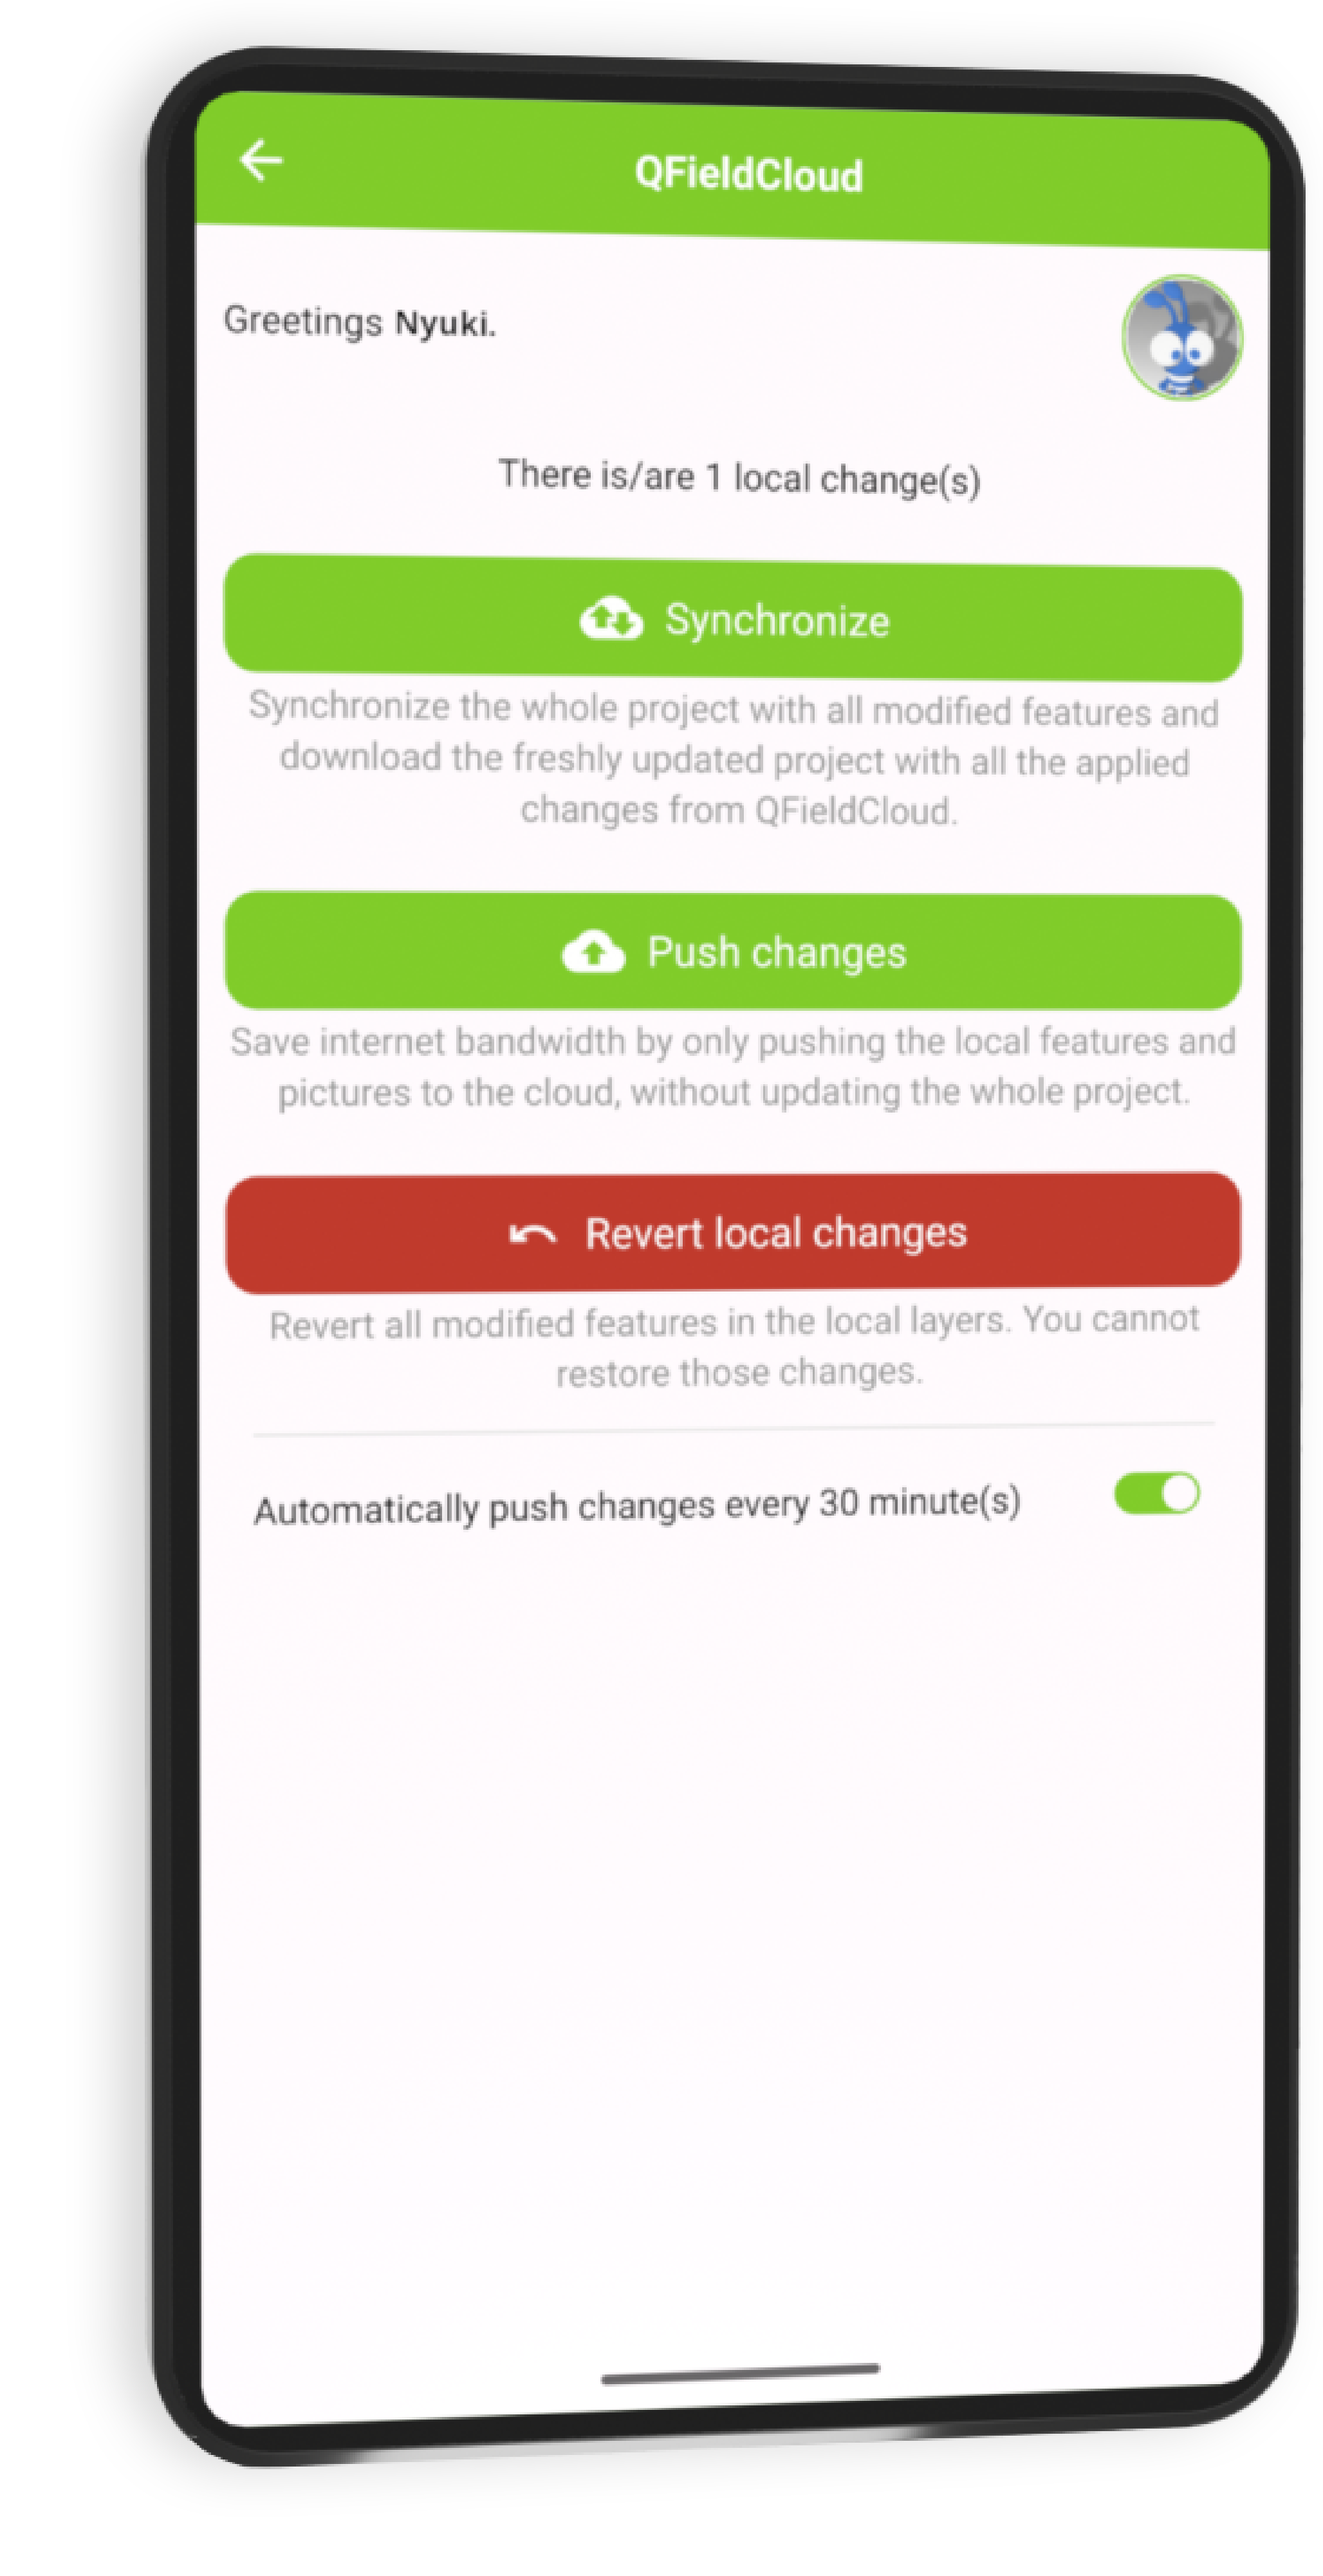
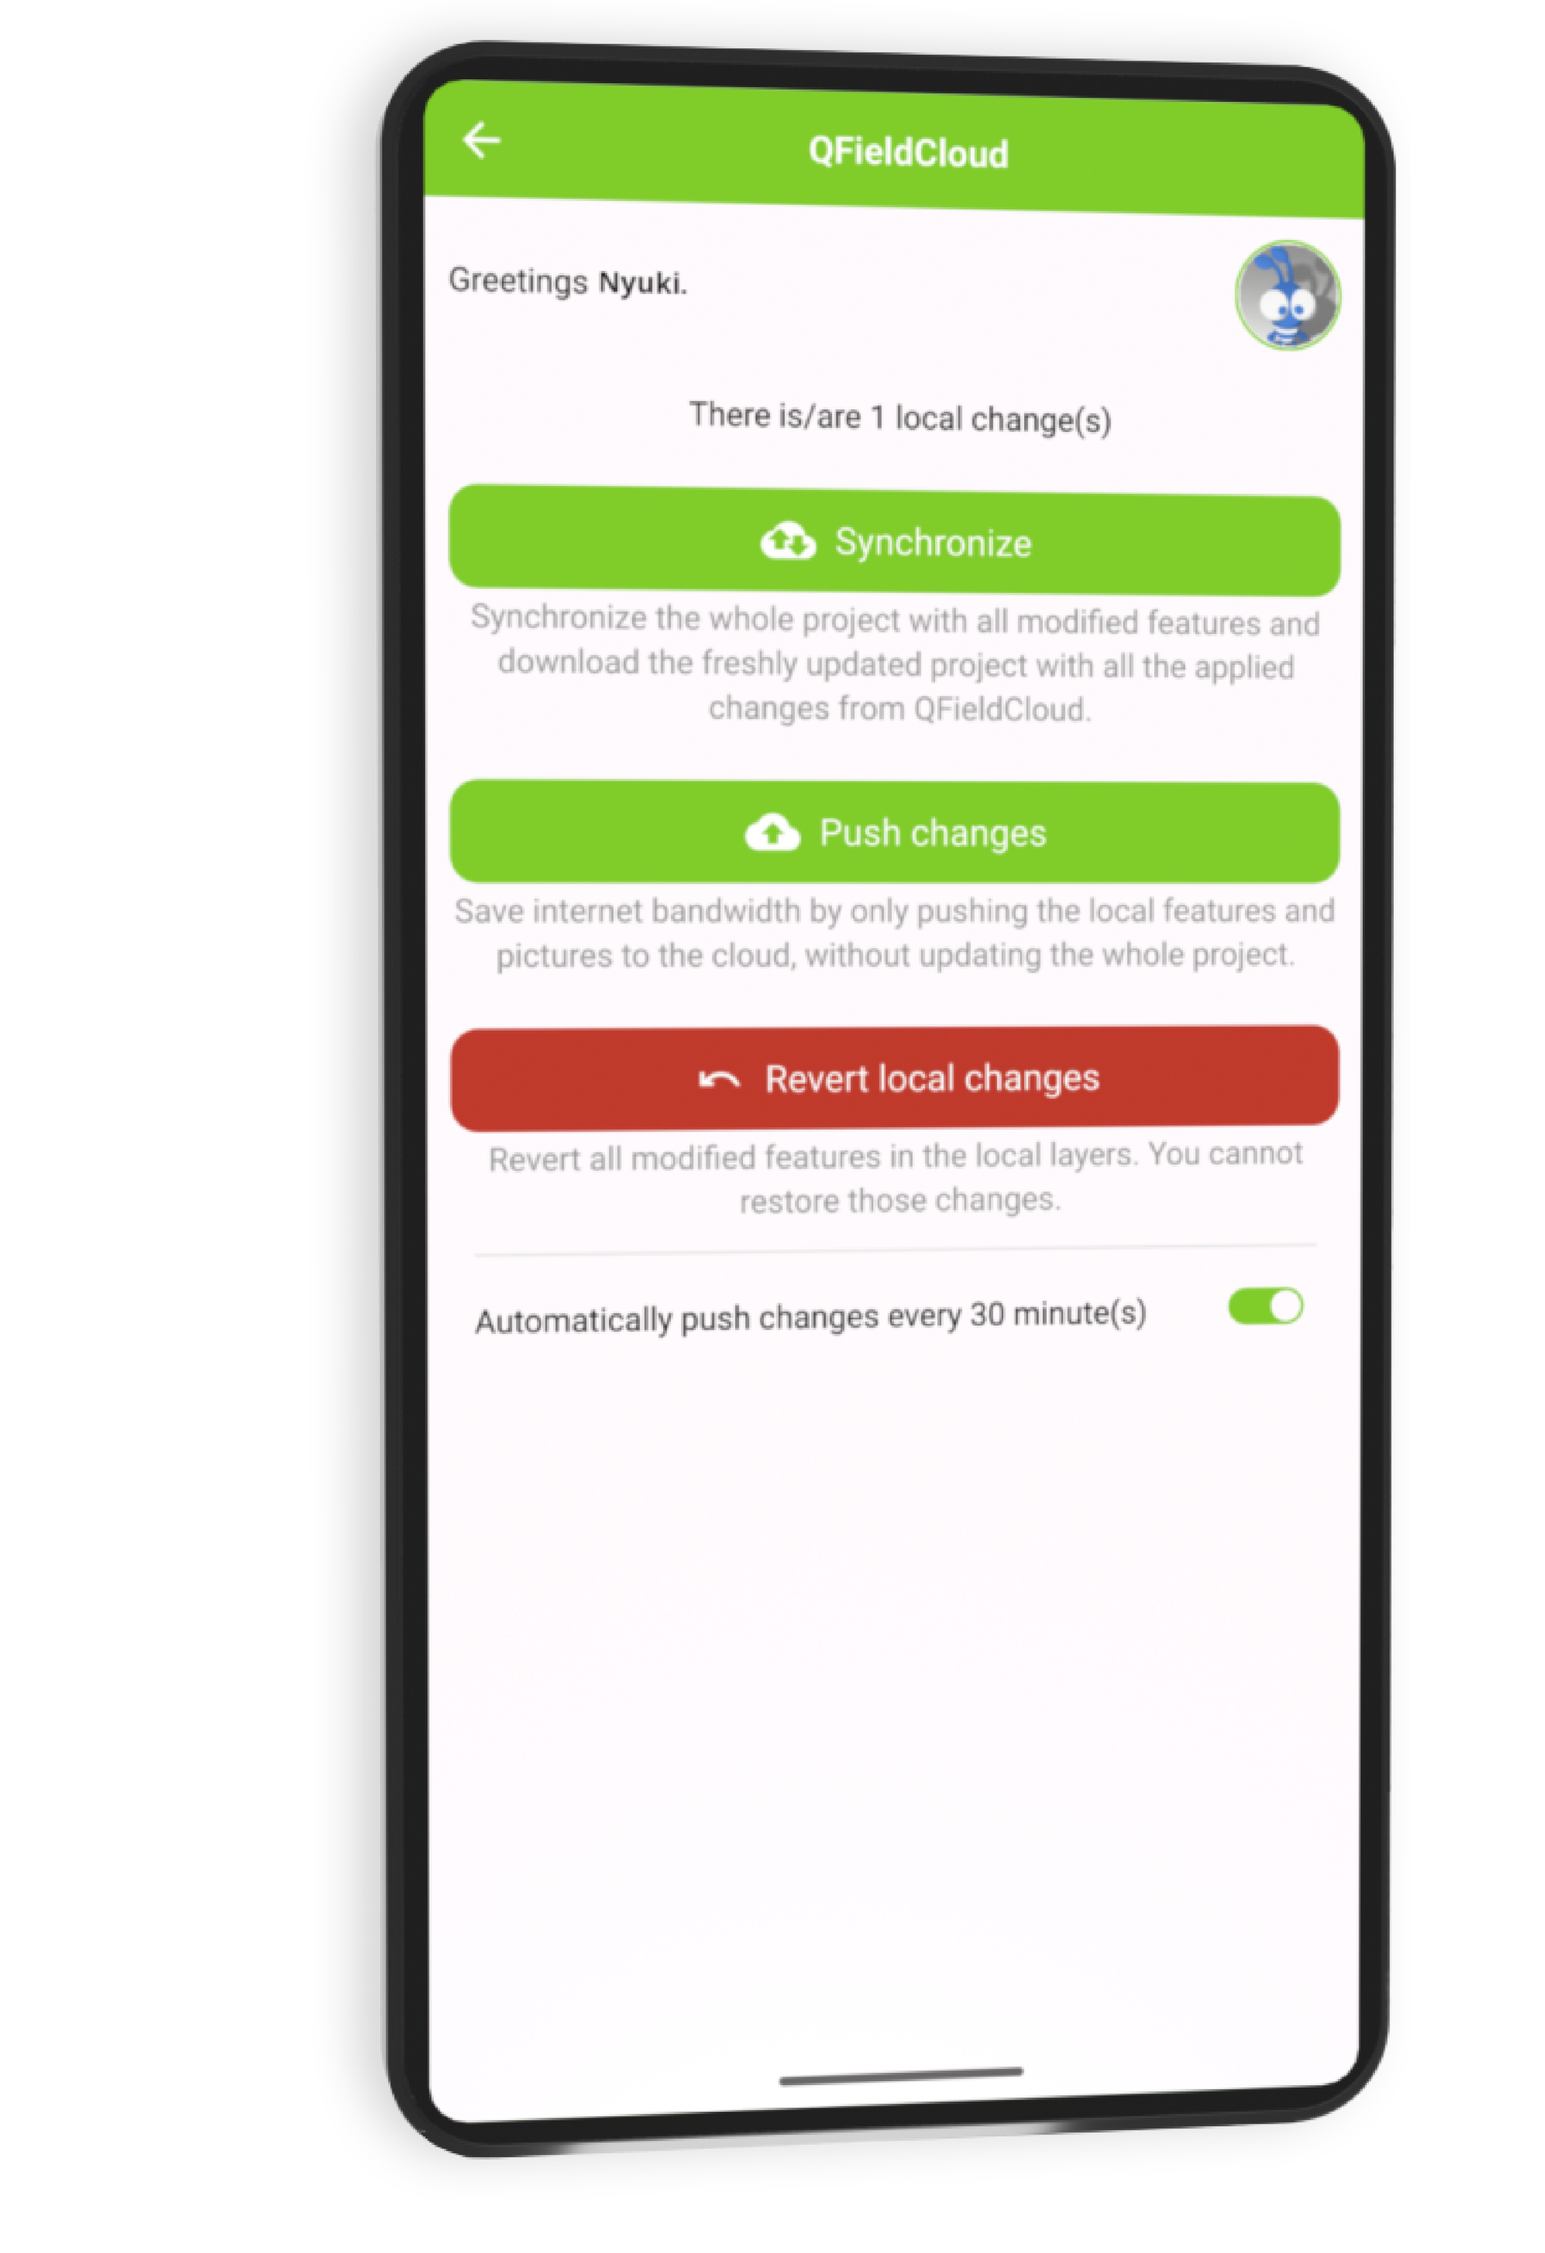
Improve carrousel looks on mobile devices

Changed region(s): [[0.0623, 0.0, 0.9961, 0.9654], [0.4669, 0.0311, 0.6537, 0.0934], [0.6848, 0.9343, 0.716, 0.9654]]

diff --git a/css/qfield.css b/css/qfield.css
@@ -151,34 +151,12 @@ footer.footer {
 
 .phone-image {
   position: absolute;
-  top: 21%;
+  bottom: -14%;
   right: 12%;
   max-height: 90%;
   max-width: 40%;
   object-fit: contain;
   z-index: 1;
-}
-/* responsive design for carousel */
-
-@media (max-width: 768px) {
-  .phone-image {
-    max-width: 60%;
-    right: 2%;
-  }
-
-  .carousel-caption.custom-caption {
-    bottom: 25%;
-    padding: 0 10px;
-  }
-
-  .carousel-caption .carousel-title {
-    font-size: 12px;
-  }
-
-  .qf-button a, .qfc-button a {
-    font-size: 11pt;
-    padding: 5px 10px;
-  }
 }
 
 /* mainpage carousel buttons */
@@ -210,7 +188,7 @@ footer.footer {
   font-weight: 600;
   color: #525251;
   margin-bottom: 40px;
-  text-shadow: none;
+  text-shadow: -1px -1px 2px #fff, 1px -1px 2px #fff, -1px 1px 2px #fff, 1px 1px 2px #fff;
 }
 
 .carousel-caption.custom-caption {
@@ -515,6 +493,32 @@ div.explanation {
   color: var(--qfield-color) !important;
   border-radius: 32px;
   text-decoration: none !important;
+}
+
+/* responsive design for carousel */
+@media (max-width: 768px) {
+  #maincarousel {
+    height:500px;
+  }
+  
+  .phone-image {
+    max-width: 58%;
+    right: 2%;
+  }
+
+  .carousel-caption.custom-caption {
+    bottom: 25%;
+    padding: 0 10px;
+  }
+
+  .carousel-caption .carousel-title {
+    font-size: 44px;
+  }
+
+  .qf-button a, .qfc-button a {
+    font-size: 11pt;
+    padding: 5px 10px;
+  }
 }
 
 @media (min-width: 768px) and (max-width: 991px) {
